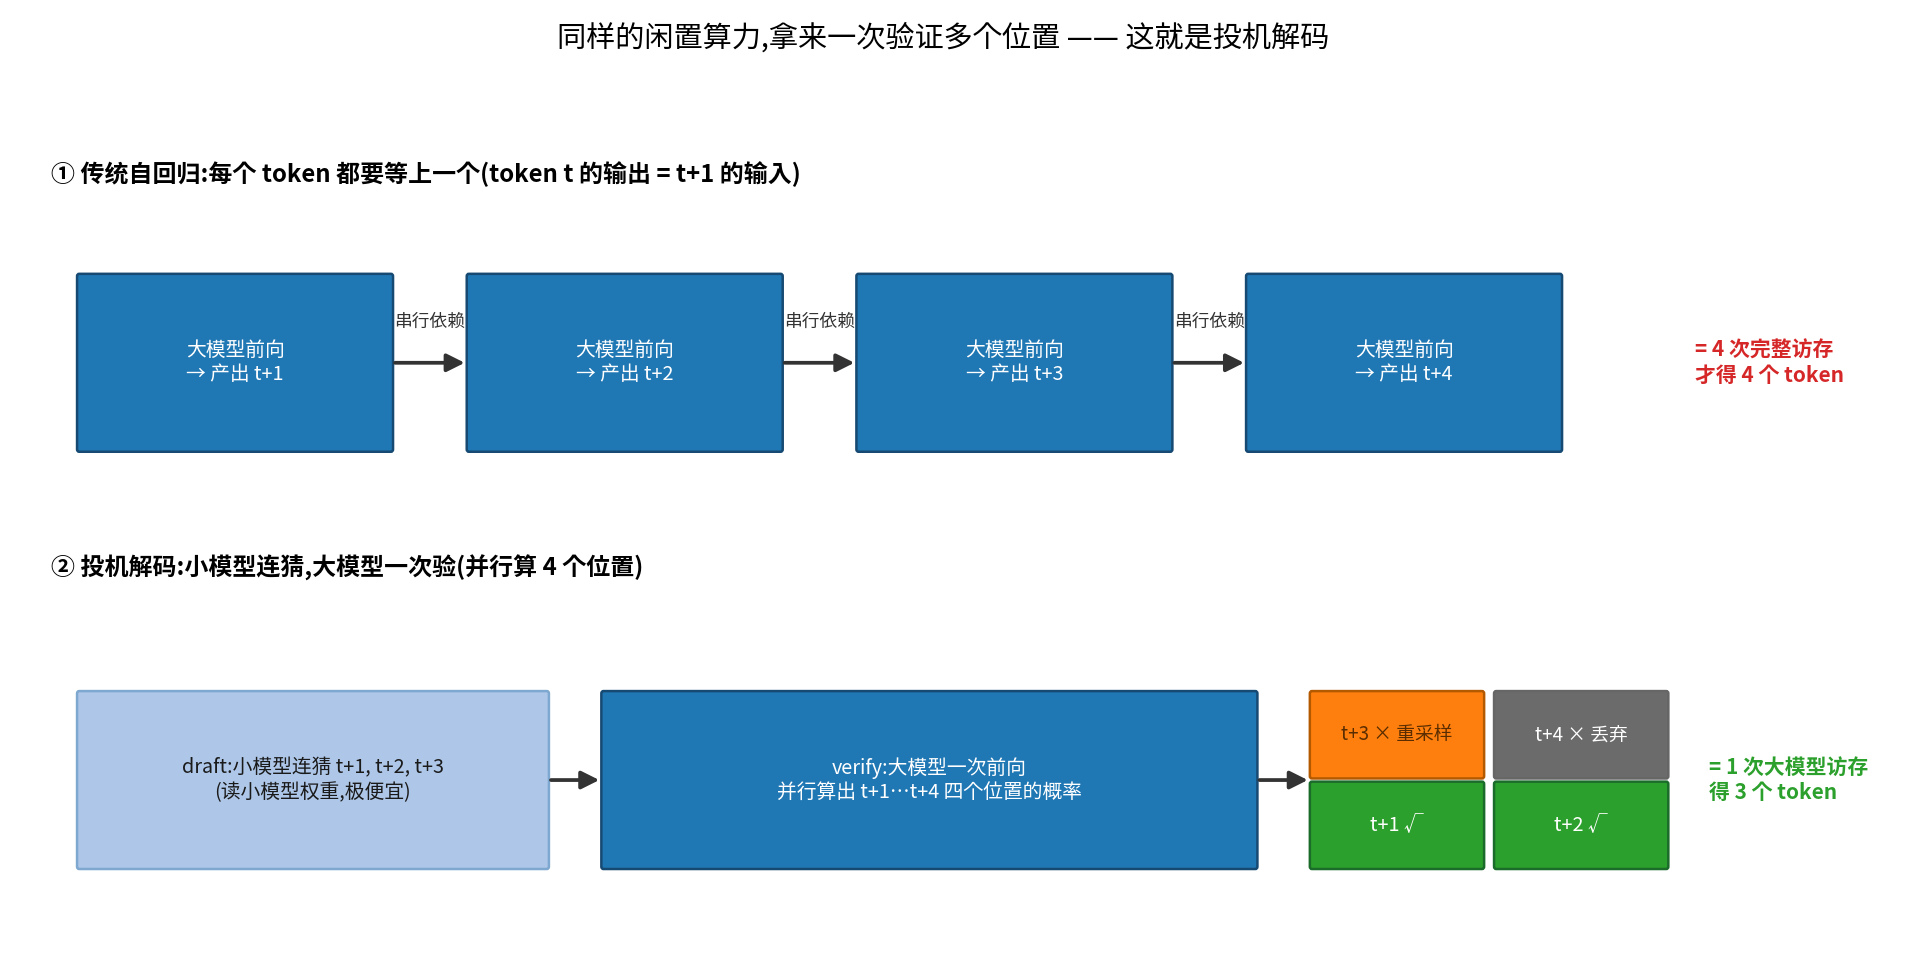
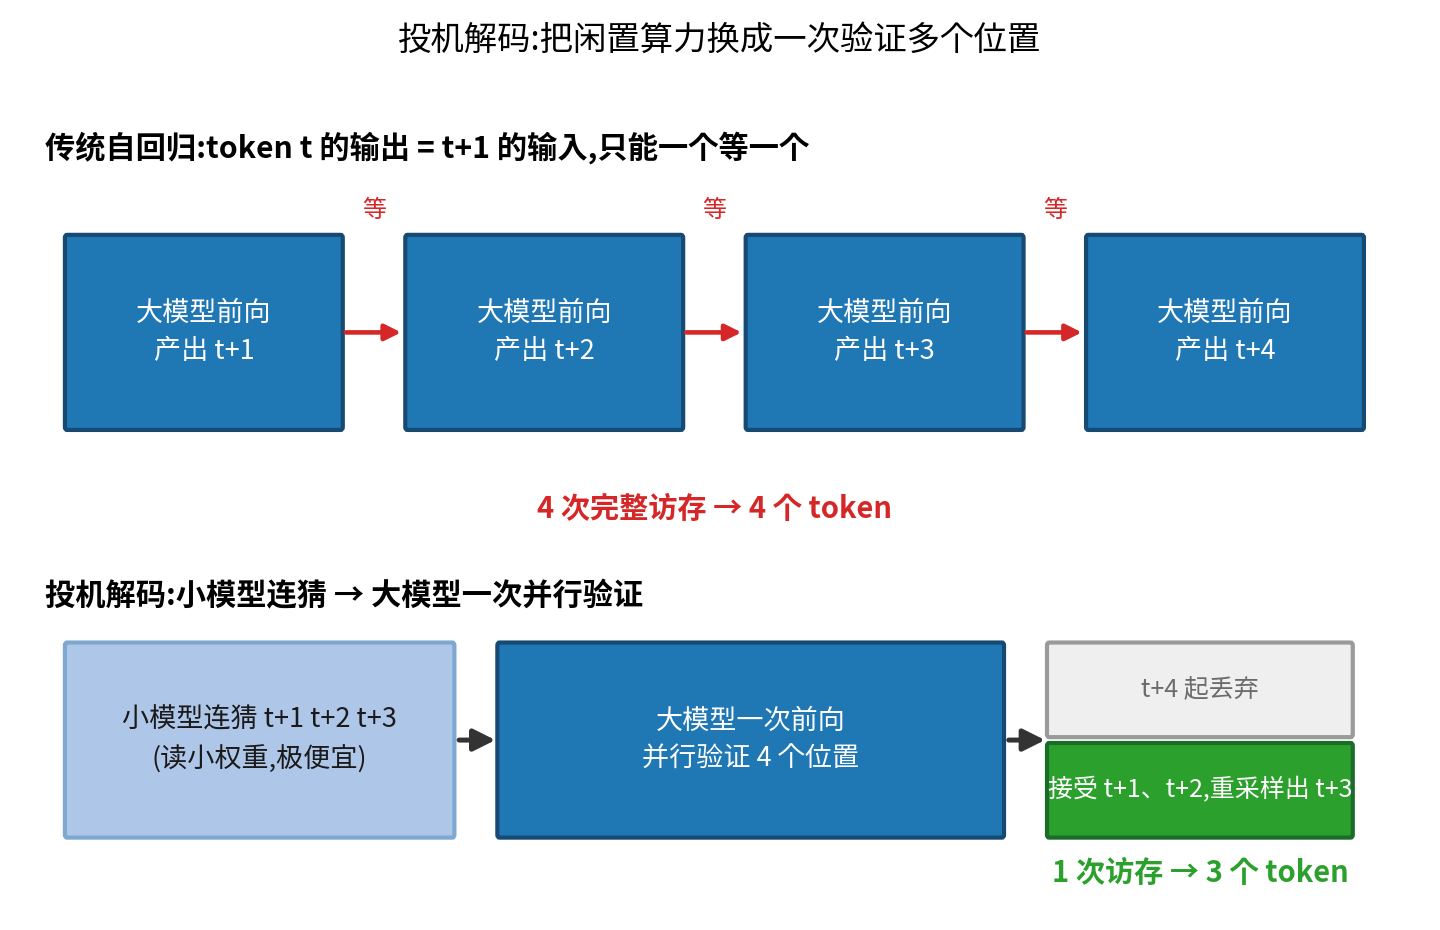
投机解码配图 v2:收窄画布+大字号,690px 正文宽下可读

diff --git a/articles/speculative-decoding/gen_figures.py b/articles/speculative-decoding/gen_figures.py
@@ -1,9 +1,12 @@
 #!/usr/bin/env python3
-"""Concept figures for the speculative-decoding article.
+"""Concept figures for the speculative-decoding article (v2: big-type, readable at 690px).
 
-figA_membound.png   — why decode is memory-bound (prefill vs decode per weight-read)
-figB_timeline.png   — autoregressive t→t+1 chain vs draft+verify timeline
-figC_accept.png     — accept/reject/rollback mechanism (rejection sampling)
+Design rule: figure width ~9in @150dpi -> shown at Zhihu's ~690px body width,
+fonts must stay >= 13pt so they remain readable after 0.5x downscale.
+
+figA_membound.png   — prefill vs decode: what one full weight-read buys you
+figB_timeline.png   — autoregressive t→t+1 chain vs draft+verify
+figC_accept.png     — accept / reject / rollback
 
 Run:  python gen_figures.py   (outputs to ./images/)
 """
@@ -12,7 +15,6 @@ from __future__ import annotations
 
 import os
 
-import numpy as np
 import matplotlib
 matplotlib.use("Agg")
 import matplotlib.pyplot as plt
@@ -33,142 +35,129 @@ print("CJK font:", cjk)
 BLUE, LBLUE, GREEN, RED, ORANGE, GREY = "#1f77b4", "#aec7e8", "#2ca02c", "#d62728", "#ff7f0e", "#6b6b6b"
 
 
-def weight_bar(ax, x, y, w, h, label="读一遍全部权重\n(70B ≈ 140 GB,成本相同)"):
-    ax.add_patch(FancyBboxPatch((x, y), w, h, boxstyle="round,pad=0.02",
-                                fc="#6baed6", ec="#2171b5", lw=1.2))
-    ax.text(x + w / 2, y + h / 2, label, ha="center", va="center", fontsize=9.5)
+def rbox(ax, x, y, w, h, fc, ec, lw=2.0, alpha=1.0):
+    ax.add_patch(FancyBboxPatch((x, y), w, h, boxstyle="round,pad=0.04",
+                                fc=fc, ec=ec, lw=lw, alpha=alpha))
 
 
-def token_squares(ax, x0, y, n, size=0.9, gap=0.18, fc="#2ca02c", max_draw=None, label=None):
-    max_draw = max_draw or n
-    for i in range(max_draw):
-        ax.add_patch(FancyBboxPatch((x0 + i * (size + gap), y), size, size * 0.62,
-                                    boxstyle="round,pad=0.02", fc=fc, ec="none"))
-    if n > max_draw:
-        ax.text(x0 + max_draw * (size + gap) + 0.6, y + size * 0.31, "……", fontsize=13)
-        ax.text(x0 + max_draw * (size + gap) + 2.6, y + size * 0.31, label or f"≈{n} tokens",
-                fontsize=10, va="center")
+def arrow(ax, x1, y1, x2, y2, color="#333", lw=2.4, ms=22):
+    ax.add_patch(FancyArrowPatch((x1, y1), (x2, y2), arrowstyle="-|>",
+                                 mutation_scale=ms, color=color, lw=lw))
 
 
 # ---------------------------------------------------------------- fig A
 def figA_membound():
-    fig, axes = plt.subplots(1, 2, figsize=(12.5, 5.6))
-    for ax, mode in zip(axes, ["Prefill(处理提示词)", "Decode(逐 token 生成)"]):
-        ax.set_xlim(0, 24); ax.set_ylim(0, 10); ax.axis("off")
-        weight_bar(ax, 3, 7.6, 17, 1.9)
-        ax.add_patch(FancyArrowPatch((11.5, 7.4), (11.5, 5.9), arrowstyle="-|>",
-                                     mutation_scale=22, color="#2171b5", lw=2))
-        ax.set_title(mode, fontsize=13, pad=10)
-    axes[0].text(12, 6.6, "一次访存,并行算出所有位置", ha="center", fontsize=10, color="#2171b5")
-    token_squares(axes[0], 2.6, 4.6, 1000, max_draw=13, label="≈1000 tokens(整段 prompt)")
-    axes[0].text(12, 3.1, "算力打满(compute-bound)", ha="center", fontsize=11,
-                 color=GREEN, fontweight="bold")
+    fig, axes = plt.subplots(1, 2, figsize=(9.2, 5.6))
+    for ax in axes:
+        ax.set_xlim(0, 24); ax.set_ylim(0, 12.5); ax.axis("off")
 
-    axes[1].text(12, 6.6, "一次访存,只算 1 个位置", ha="center", fontsize=10, color="#d62728")
-    token_squares(axes[1], 10.6, 4.6, 1, size=0.9)
-    axes[1].text(11.05, 3.1, "算力闲置 >95%(memory-bound)", ha="center", fontsize=11,
-                 color=RED, fontweight="bold")
+    # ---- left: prefill ----
+    ax = axes[0]
+    ax.set_title("Prefill:一次访存 → 一整段", fontsize=16, color="#174a73", pad=8, fontweight="bold")
+    rbox(ax, 2, 9.3, 20, 2.4, "#6baed6", "#2171b5")
+    ax.text(12, 10.5, "读一遍全部权重(140 GB)", ha="center", va="center", fontsize=14, color="white", fontweight="bold")
+    arrow(ax, 12, 9.1, 12, 7.6, "#2171b5")
+    for i in range(9):
+        rbox(ax, 2 + i * 2.25, 5.6, 1.9, 1.35, GREEN, "none")
+    ax.text(20.6, 6.3, "…", fontsize=18, color=GREEN, ha="left", va="center")
+    ax.text(12, 4.3, "≈1000 个 token 并行算出", ha="center", fontsize=13.5, color="#1b6b2b")
+    rbox(ax, 2, 1.1, 20, 2.3, "#eaf5ea", "#2ca02c", lw=1.6)
+    ax.text(12, 2.25, "算力打满(compute-bound)", ha="center", fontsize=14, color="#1b6b2b", fontweight="bold")
 
-    fig.suptitle("decode 为什么快不起来:瓶颈不是算力,是访存(batch = 1)", fontsize=14.5)
-    fig.text(0.5, 0.03,
-             "生成速度上限 ≈ 显存带宽 ÷ 权重大小(与算力大小无关)—— 例如带宽 1 TB/s ÷ 140 GB ≈ 7 tokens/s",
-             ha="center", fontsize=11,
-             bbox=dict(boxstyle="round,pad=0.45", fc="#f5f5f5", ec="#cccccc"))
-    fig.tight_layout(rect=(0, 0.07, 1, 0.95))
+    # ---- right: decode ----
+    ax = axes[1]
+    ax.set_title("Decode:一次访存 → 1 个", fontsize=16, color="#a01717", pad=8, fontweight="bold")
+    rbox(ax, 2, 9.3, 20, 2.4, "#6baed6", "#2171b5")
+    ax.text(12, 10.5, "读一遍全部权重(140 GB)", ha="center", va="center", fontsize=14, color="white", fontweight="bold")
+    arrow(ax, 12, 9.1, 12, 7.6, "#d62728")
+    rbox(ax, 10.9, 5.6, 2.2, 1.5, GREEN, "none")
+    ax.text(12, 3.9, "每生成 1 个 token 都要付一遍", ha="center", fontsize=13, color="#333")
+    ax.text(12, 2.9, "同样的访存成本", ha="center", fontsize=13, color="#333")
+    rbox(ax, 2, 0.7, 20, 2.1, "#fdeaea", "#d62728", lw=1.6)
+    ax.text(12, 1.75, "算力闲置 > 95%(memory-bound)", ha="center", fontsize=14, color="#a01717", fontweight="bold")
+
+    fig.suptitle("decode 快不起来的根源:瓶颈是访存,不是算力(batch=1)", fontsize=17)
+    fig.text(0.5, 0.015, "生成速度上限 ≈ 显存带宽 ÷ 权重大小(跟算力没关系)",
+             ha="center", fontsize=14,
+             bbox=dict(boxstyle="round,pad=0.45", fc="#f5f5f5", ec="#bbbbbb"))
+    fig.tight_layout(rect=(0, 0.055, 1, 0.94))
     fig.savefig(f"{OUT}/figA_membound.png", dpi=150); plt.close(fig)
 
 
 # ---------------------------------------------------------------- fig B
 def figB_timeline():
-    fig, ax = plt.subplots(figsize=(12.8, 6.4))
-    ax.set_xlim(0, 26); ax.set_ylim(0, 11); ax.axis("off")
+    fig, ax = plt.subplots(figsize=(9.6, 6.2))
+    ax.set_xlim(0, 25); ax.set_ylim(0, 11.5); ax.axis("off")
 
-    def block(x, y, w, h, fc, ec, text, fs=9.5, tc="white"):
-        ax.add_patch(FancyBboxPatch((x, y), w, h, boxstyle="round,pad=0.03",
-                                    fc=fc, ec=ec, lw=1.2))
-        ax.text(x + w / 2, y + h / 2, text, ha="center", va="center", fontsize=fs, color=tc)
+    def block(x, y, w, h, fc, ec, lines, fs=13, tc="white", weight="normal"):
+        rbox(ax, x, y, w, h, fc, ec)
+        ax.text(x + w / 2, y + h / 2, "\n".join(lines), ha="center", va="center",
+                fontsize=fs, color=tc, fontweight=weight, linespacing=1.5)
 
-    def arrow(x1, y1, x2, y2, text=None, color="#333", dy=0.45, ls="-"):
-        ax.add_patch(FancyArrowPatch((x1, y1), (x2, y2), arrowstyle="-|>",
-                                     mutation_scale=18, color=color, lw=1.8, linestyle=ls))
-        if text:
-            ax.text((x1 + x2) / 2, max(y1, y2) + dy, text, ha="center", fontsize=8.5, color=color)
-
-    # ---- row 1: autoregressive ----
-    ax.text(0.4, 9.6, "① 传统自回归:每个 token 都要等上一个(token t 的输出 = t+1 的输入)",
-            fontsize=11.5, fontweight="bold")
-    bw, bh, y1 = 4.4, 2.2, 6.2
-    labels = ["大模型前向\n→ 产出 t+1", "大模型前向\n→ 产出 t+2", "大模型前向\n→ 产出 t+3", "大模型前向\n→ 产出 t+4"]
-    for i, lab in enumerate(labels):
-        x = 0.8 + i * (bw + 1.1)
-        block(x, y1, bw, bh, BLUE, "#174a73", lab)
+    # ---- row 1 ----
+    ax.text(0.4, 10.3, "传统自回归:token t 的输出 = t+1 的输入,只能一个等一个",
+            fontsize=14.5, fontweight="bold")
+    y1, bw, bh = 6.6, 4.9, 2.6
+    for i in range(4):
+        x = 0.8 + i * (bw + 1.2)
+        block(x, y1, bw, bh, BLUE, "#174a73", ["大模型前向", f"产出 t+{i+1}"])
         if i:
-            arrow(x - 1.1, y1 + bh / 2, x, y1 + bh / 2, "串行依赖")
-    ax.text(23.6, y1 + bh / 2, "= 4 次完整访存\n才得 4 个 token", fontsize=10,
-            va="center", color=RED, fontweight="bold")
+            arrow(ax, x - 1.18, y1 + bh / 2, x - 0.04, y1 + bh / 2, "#d62728", lw=2.2, ms=16)
+            ax.text(x - 0.6, y1 + bh + 0.28, "等", fontsize=11.5, color="#d62728", ha="center")
+    ax.text(12.4, 5.35, "4 次完整访存 → 4 个 token", fontsize=14, color=RED,
+            ha="center", fontweight="bold")
 
-    # ---- row 2: speculative ----
-    ax.text(0.4, 4.6, "② 投机解码:小模型连猜,大模型一次验(并行算 4 个位置)",
-            fontsize=11.5, fontweight="bold")
-    y2 = 0.9
-    block(0.8, y2, 6.6, 2.2, LBLUE, "#7fa8d0", "draft:小模型连猜 t+1, t+2, t+3\n(读小模型权重,极便宜)", tc="#1a1a1a")
-    arrow(7.4, y2 + 1.1, 8.2, y2 + 1.1)
-    block(8.2, y2, 9.2, 2.2, BLUE, "#174a73", "verify:大模型一次前向\n并行算出 t+1…t+4 四个位置的概率")
-    arrow(17.4, y2 + 1.1, 18.2, y2 + 1.1)
-    block(18.2, y2, 2.4, 1.05, GREEN, "#1b6b2b", "t+1 √")
-    block(20.8, y2, 2.4, 1.05, GREEN, "#1b6b2b", "t+2 √")
-    block(18.2, y2 + 1.15, 2.4, 1.05, ORANGE, "#b35a00", "t+3 × 重采样", fs=9, tc="#5a2d00")
-    block(20.8, y2 + 1.15, 2.4, 1.05, GREY, "#666", "t+4 × 丢弃", fs=9)
-    ax.text(23.8, y2 + 1.1, "= 1 次大模型访存\n得 3 个 token", fontsize=10,
-            va="center", color=GREEN, fontweight="bold")
+    # ---- row 2 ----
+    ax.text(0.4, 4.15, "投机解码:小模型连猜 → 大模型一次并行验证", fontsize=14.5, fontweight="bold")
+    y2 = 1.0
+    block(0.8, y2, 6.9, 2.6, LBLUE, "#7fa8d0", ["小模型连猜 t+1 t+2 t+3", "(读小权重,极便宜)"], tc="#1a1a1a")
+    arrow(ax, 7.75, y2 + 1.3, 8.55, y2 + 1.3)
+    block(8.55, y2, 9.0, 2.6, BLUE, "#174a73", ["大模型一次前向", "并行验证 4 个位置"])
+    arrow(ax, 17.6, y2 + 1.3, 18.4, y2 + 1.3)
+    block(18.4, y2, 5.4, 1.22, GREEN, "#1b6b2b", ["接受 t+1、t+2,重采样出 t+3"], fs=12)
+    block(18.4, y2 + 1.38, 5.4, 1.22, "#efefef", "#9a9a9a", ["t+4 起丢弃"], fs=12, tc="#6b6b6b")
+    ax.text(21.1, 0.35, "1 次访存 → 3 个 token", fontsize=14, color=GREEN,
+            ha="center", fontweight="bold")
 
-    ax.set_title("同样的闲置算力,拿来一次验证多个位置 —— 这就是投机解码", fontsize=14, pad=12)
+    ax.set_title("投机解码:把闲置算力换成一次验证多个位置", fontsize=16, pad=10)
     fig.tight_layout()
     fig.savefig(f"{OUT}/figB_timeline.png", dpi=150); plt.close(fig)
 
 
 # ---------------------------------------------------------------- fig C
 def figC_accept():
-    fig, ax = plt.subplots(figsize=(12.5, 5.8))
-    ax.set_xlim(0, 26); ax.set_ylim(0, 11); ax.axis("off")
+    fig, ax = plt.subplots(figsize=(9.4, 5.9))
+    ax.set_xlim(0, 25); ax.set_ylim(0, 12); ax.axis("off")
 
-    ax.text(0.4, 9.8, "验证规则:从前往后逐个对答案,遇到第一个'想法不同'的 token 就回滚",
-            fontsize=12.5, fontweight="bold")
+    ax.text(0.5, 10.6, "验证规则:逐个对答案,第一个'想法不同'的地方就回滚",
+            fontsize=15.5, fontweight="bold")
 
     toks = [
-        ("草稿 t+1\n'深度'", "√ 接受", GREEN),
-        ("草稿 t+2\n'学习'", "√ 接受", GREEN),
-        ("草稿 t+3\n'的'", "√ 接受", GREEN),
-        ("草稿 t+4\n'本质'", "× 拒绝", RED),
-        ("草稿 t+5\n'是'", "× 丢弃", GREY),
+        ("t+1", "深度学习", "√ 接受", GREEN),
+        ("t+2", "的", "√ 接受", GREEN),
+        ("t+3", "本质", "√ 接受", GREEN),
+        ("t+4", "是拟合", "× 拒绝", RED),
+        ("t+5", "能力", "× 丢弃", GREY),
     ]
-    x0, y0, w, h = 1.0, 5.4, 4.1, 3.0
-    for i, (draft, verdict, color) in enumerate(toks):
-        x = x0 + i * (w + 0.9)
+    x0, y0, w, h = 0.9, 5.9, 4.2, 3.4
+    for i, (pos, tok, verdict, color) in enumerate(toks):
+        x = x0 + i * (w + 0.55)
         faded = color == GREY
-        ax.add_patch(FancyBboxPatch((x, y0), w, h, boxstyle="round,pad=0.04",
-                                    fc="#ffffff" if faded else "#f7f7f7", ec=color,
-                                    lw=2.2, alpha=0.55 if faded else 1.0))
-        ax.text(x + w / 2, y0 + h * 0.62, draft, ha="center", va="center", fontsize=10.5)
-        ax.text(x + w / 2, y0 + h * 0.2, verdict, ha="center", fontsize=10.5,
-                color=color, fontweight="bold")
-        if i < 4:
-            ax.add_patch(FancyArrowPatch((x + w + 0.05, y0 + h / 2), (x + w + 0.85, y0 + h / 2),
-                                         arrowstyle="-|>", mutation_scale=16, color="#555", lw=1.4))
+        rbox(ax, x, y0, w, h, "#fafafa", color, lw=2.6, alpha=0.55 if faded else 1.0)
+        ax.text(x + w / 2, y0 + h - 0.8, pos, ha="center", fontsize=13, color="#888")
+        ax.text(x + w / 2, y0 + h / 2 - 0.15, f"草稿:'{tok}'", ha="center", fontsize=14.5, color="#222")
+        ax.text(x + w / 2, y0 + 0.75, verdict, ha="center", fontsize=14.5, color=color, fontweight="bold")
 
-    # resample replacement
-    xr = x0 + 3 * (w + 0.9)
-    ax.add_patch(FancyArrowPatch((xr + w / 2, y0 - 0.15), (xr + w / 2, y0 - 1.5),
-                                 arrowstyle="-|>", mutation_scale=18, color=ORANGE, lw=2))
-    ax.add_patch(FancyBboxPatch((xr - 0.4, y0 - 3.3), w + 0.8, 1.7, boxstyle="round,pad=0.04",
-                                fc="#fff3e0", ec=ORANGE, lw=1.8))
-    ax.text(xr + w / 2, y0 - 2.45,
-            "按大模型分布重新采样 → '核心'", ha="center", fontsize=10.5, color="#b35a00")
+    xr = x0 + 3 * (w + 0.55)
+    arrow(ax, xr + w / 2, y0 - 0.12, xr + w / 2, y0 - 1.35, ORANGE)
+    rbox(ax, xr - 1.5, y0 - 3.5, w + 3.0, 1.9, "#fff3e0", ORANGE, lw=2.2)
+    ax.text(xr + w / 2, y0 - 2.55, "按大模型分布重采样:'核心'", ha="center",
+            fontsize=14, color="#b35a00", fontweight="bold")
 
-    ax.text(13, 1.1,
-            "本轮接受长度 = 3 → 产出 4 个 token(3 个接受 + 1 个重采样)\nrejection sampling 保证:最终输出分布 ≡ 直接用大模型生成(无损)",
-            ha="center", fontsize=11,
-            bbox=dict(boxstyle="round,pad=0.5", fc="#f0f7ff", ec="#9dc3e6"))
+    rbox(ax, 2.2, 0.25, 20.6, 1.8, "#f0f7ff", "#9dc3e6", lw=1.8)
+    ax.text(12.5, 1.15, "本轮接受长度 3 → 净赚 4 个 token,输出分布 ≡ 大模型(无损)",
+            ha="center", fontsize=14, color="#174a73", fontweight="bold")
+
     fig.tight_layout()
     fig.savefig(f"{OUT}/figC_accept.png", dpi=150); plt.close(fig)
 
